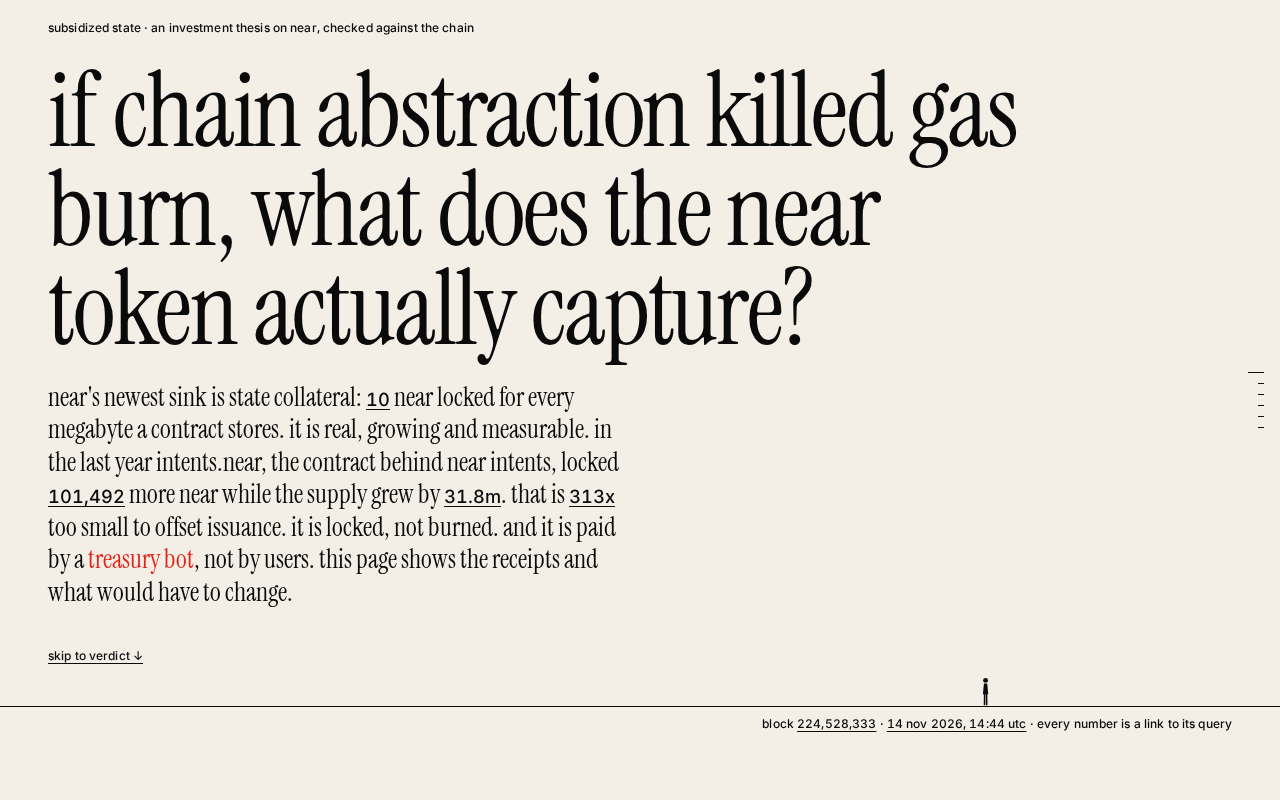
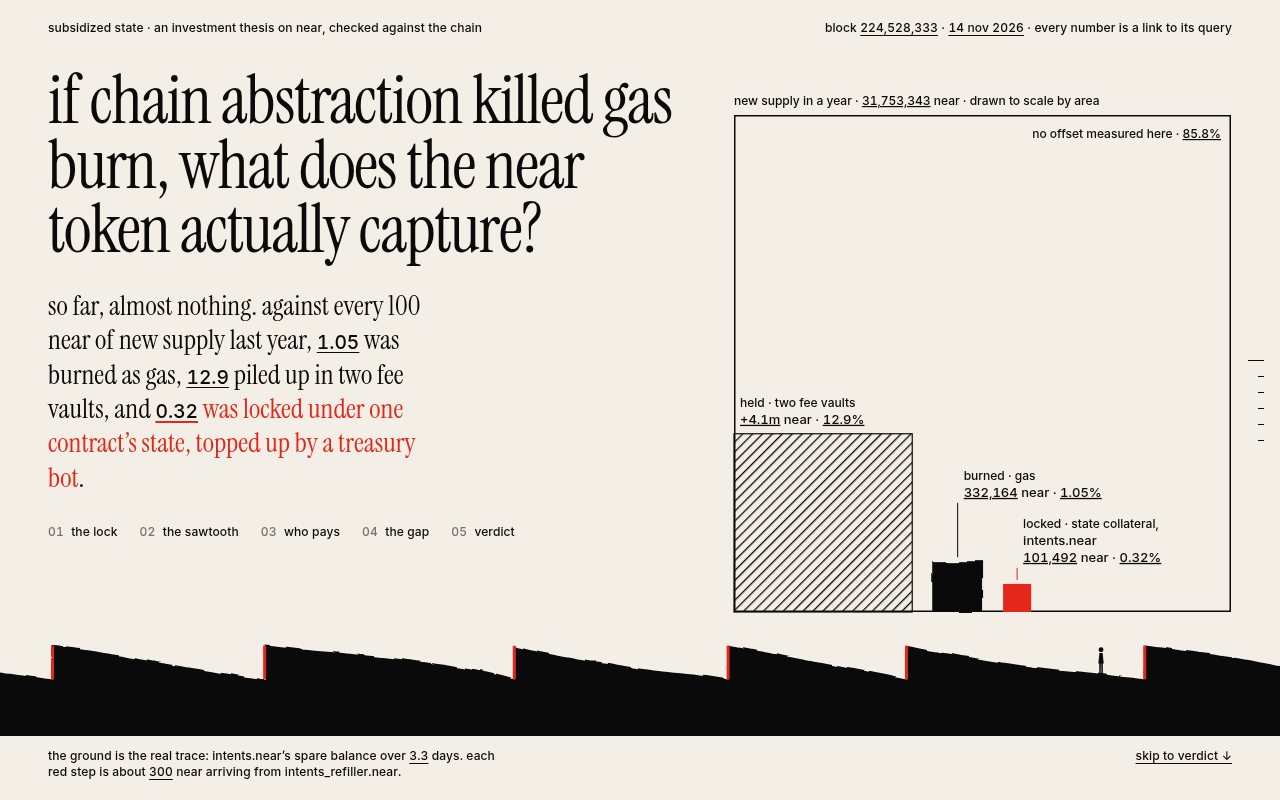
Verdict top: answer beside what to watch; tighter sawtooth floor; lock clears the big number; regenerate shots from the real artifact, add s1-1440

diff --git a/site/index.html b/site/index.html
@@ -139,7 +139,19 @@
   <p class="label chap">05 — verdict</p>
   <h2 class="hl">verdict</h2>
   <p class="fallback" hidden>data unavailable: run <code>python3 scripts/rebuild.py</code></p>
+  <div class="top">
   <p class="answer bound">today the near token captures a deposit, not a toll: <a class="n" data-f="gap.lock_near_per_year" data-fmt="near0"></a> near a year locked under state and <a class="n" data-f="gas_burn.burned_near_per_year" data-fmt="near0"></a> burned as gas, against <a class="n" data-f="gap.net_issuance_near_per_year" data-fmt="m1"></a> issued. two fee vaults gained <a class="n" data-f="calc.vaults_change_365d" data-fmt="m1"></a> in the same year. that near is held, not burned.</p>
+
+  <div class="watch bound">
+    <h3 class="label">what to watch</h3>
+    <ul>
+      <li>the fee vaults fall from <a class="n" data-f="vaults.buybacks.balance_near" data-fmt="near0"></a> and <a class="n" data-f="vaults.fefunds.balance_near" data-fmt="near0"></a> near, and total supply falls by the same amount: a burn, not a transfer.</li>
+      <li>a different payer is identified by receipt while the lock keeps growing. today <a class="n" data-f="sawtooth.from_refiller_pct" data-fmt="int"></a>% of top-ups come from intents_refiller.near.</li>
+      <li>the lock passes 1% of issuance. today it is <a class="n" data-f="gap.lock_pct_of_issuance" data-fmt="pct2"></a>.</li>
+      <li>gas burn passes 2% of issuance. today it is <a class="n" data-f="gas_burn.pct_of_net_issuance" data-fmt="pct2"></a>.</li>
+    </ul>
+  </div>
+  </div>
   <div class="vfig drawing" role="img"></div>
   <div class="cases bound">
     <div>
@@ -170,16 +182,6 @@
         <li>any of the three tests below fails on a rebuild.</li>
       </ul>
     </div>
-  </div>
-
-  <div class="watch bound">
-    <h3 class="label">what to watch</h3>
-    <ul>
-      <li>the fee vaults fall from <a class="n" data-f="vaults.buybacks.balance_near" data-fmt="near0"></a> and <a class="n" data-f="vaults.fefunds.balance_near" data-fmt="near0"></a> near, and total supply falls by the same amount: a burn, not a transfer.</li>
-      <li>a different payer is identified by receipt while the lock keeps growing. today <a class="n" data-f="sawtooth.from_refiller_pct" data-fmt="int"></a>% of top-ups come from intents_refiller.near.</li>
-      <li>the lock passes 1% of issuance. today it is <a class="n" data-f="gap.lock_pct_of_issuance" data-fmt="pct2"></a>.</li>
-      <li>gas burn passes 2% of issuance. today it is <a class="n" data-f="gas_burn.pct_of_net_issuance" data-fmt="pct2"></a>.</li>
-    </ul>
   </div>
 
   <div class="tests bound">

diff --git a/site/s3.js b/site/s3.js
@@ -3,6 +3,7 @@
 import { el, num, text, svg, figure, fmt, get, tw, clamp, isDesk, isShort, figH } from './lib.js';
 
 let S = null; // state for the scroll handler
+const fsPad = () => (isDesk() ? 13 : 11) + 18; // room under the floor for its label
 
 export function drawSawtooth(D, sec, { reduce }) {
   const plot = sec.querySelector('.plot');
@@ -16,7 +17,7 @@ export function drawSawtooth(D, sec, { reduce }) {
   const W = plot.clientWidth || innerWidth;
   const PH = plot.clientHeight;
   const TW = desk || statik ? W : Math.round(W * 3.2);
-  const floorPad = desk ? 64 : 68;
+  const floorPad = fsPad();
   const floorY = PH - floorPad;
   const from = st.window.from_block, to = st.window.to_block;
   const x = b => ((b - from) / (to - from)) * TW;

diff --git a/site/style.css b/site/style.css
@@ -282,8 +282,9 @@ svg .t.red a.n, svg a.n .t.red { text-decoration-color: var(--red); }
   .s6 .row .st, .s6 .row .checks { grid-column: auto; }
   .s6 .row .res { grid-column: auto; grid-row: auto; }
   .s6 .duo { grid-template-columns: 7fr 5fr; gap: 48px; }
-  .s6 .watch ul { columns: 2; column-gap: 48px; }
-  .s6 .watch li { break-inside: avoid; }
+  .s6 .top { display: grid; grid-template-columns: minmax(0, 8fr) minmax(0, 4fr); column-gap: 48px; align-items: end; }
+  .s6 .top .answer { max-width: none; font-size: clamp(44px, min(4.4vw, 7.4vh), 72px); }
+  .s6 .watch { margin: 0; padding-left: 24px; border-left: 1px solid var(--hair); }
 }
 
 /* ---------- motion (only after .in, only without reduced motion) ---------- */

diff --git a/site/s5.js b/site/s5.js
@@ -17,7 +17,7 @@ export function gapScale(D) {
   const W = innerWidth, gut = isDesk() ? 48 : 16;
   let side;
   if (isTwo()) side = Math.min(0.5 * (W - 2 * gut), isShort() ? Infinity : Math.max(260, innerHeight - 150));
-  else side = W - 2 * gut;
+  else side = W - 2 * gut - figH() - 6;
   side = Math.round(Math.min(side, 760));
   const iss = D.gap.net_issuance_near_per_year;
   return { side, k: v => Math.max(3, side * Math.sqrt(Math.max(0, v) / iss)) };

diff --git a/site/s2.js b/site/s2.js
@@ -11,7 +11,8 @@ export function drawLock(D, sec) {
   const desk = isDesk();
   const W = innerWidth;
   const vh = innerHeight;
-  const H = Math.round((desk ? 0.64 : 0.5) * vh);
+  // desktop: leave the headline and the big number above the tallest column
+  const H = Math.round(desk ? Math.min(0.64 * vh, vh - 310) : 0.5 * vh);
   const fs = desk ? 13 : 11;
   const below = desk ? 40 : 34;
   const above = fs + 12;
